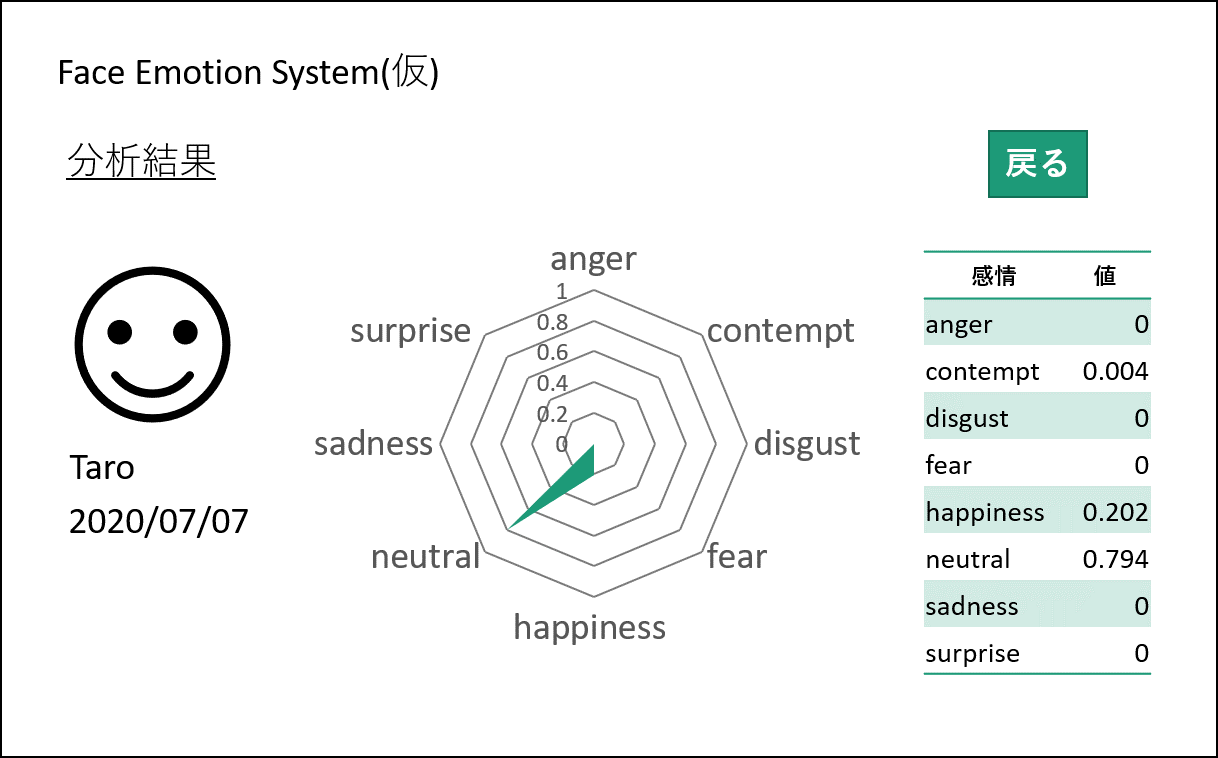
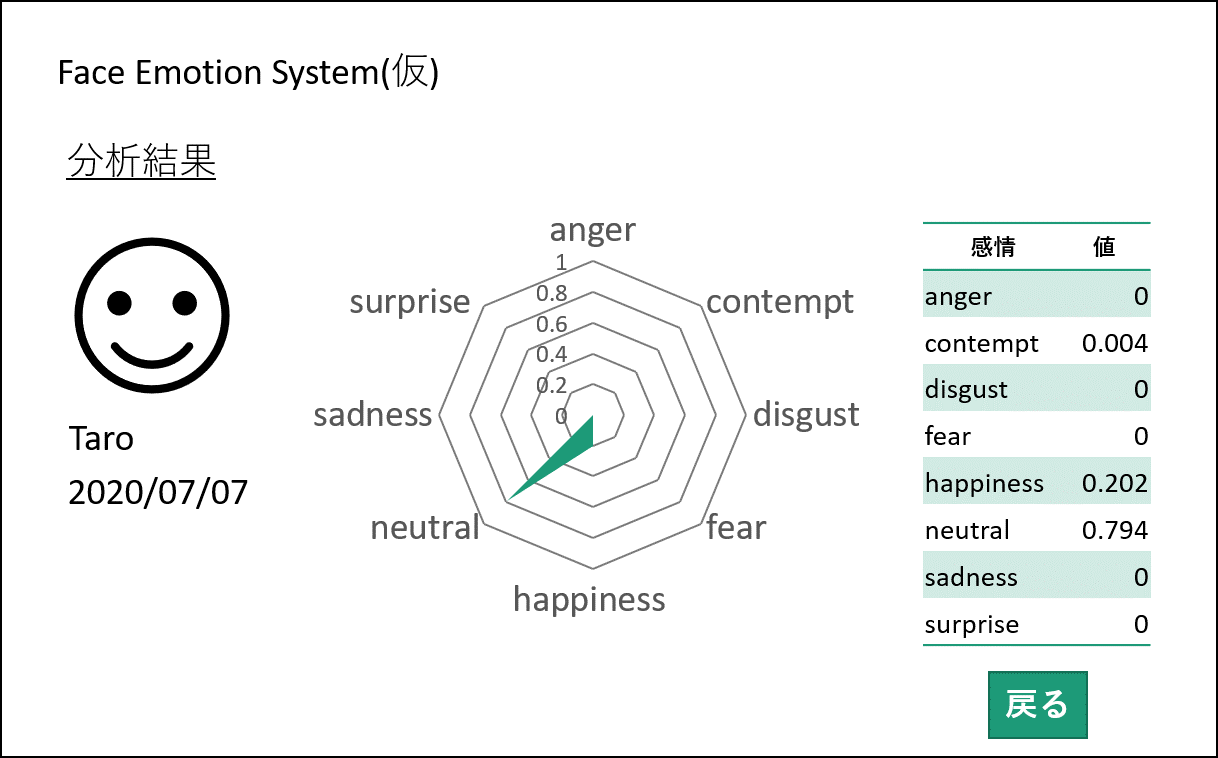
修正 ユースケース図のアクター「Server」の名称変更, 画面レイアウトのボタンの配置変更, ユースケース記述の修正

diff --git a/usecase/usecaseDescription.html b/usecase/usecaseDescription.html
@@ -512,7 +512,7 @@ body.book #toc,body.book #preamble,body.book h1.sect0,body.book .sect1>h2{page-b
 <h3 id="_ユースケース図">1.2. ユースケース図</h3>
 <div class="imageblock">
 <div class="content">
-<img src="img/diag-3ed47d666d03d09c5b06304e43fc3bd9.png" alt="Diagram" width="380" height="200">
+<img src="img/diag-e3586867dd161ef3a5897ebbee058bb9.png" alt="Diagram" width="477" height="200">
 </div>
 </div>
 </div>
@@ -707,23 +707,36 @@ body.book #toc,body.book #preamble,body.book h1.sect0,body.book .sect1>h2{page-b
 </li>
 <li>
 <p>ユーザーは「表示」ボタンを押下する</p>
+<div class="ulist">
+<ul>
+<li>
+<p><span class="red">URLが未入力の場合</span> ⇒ <a href="#display-Alt-1">Alt-1へ移動</a></p>
 </li>
 <li>
-<p>システムは対応する画像を表示する</p>
+<p><span class="red">URLが正しくない場合</span> ⇒ <a href="#display-Err-1">Err-1へ移動</a></p>
+</li>
+</ul>
+</div>
+</li>
+<li>
+<p>表情分析システムは対応する画像を表示する</p>
 </li>
 </ol>
 </div></div></td>
 </tr>
 <tr>
 <td class="tableblock halign-left valign-top"><p class="tableblock">代替フロー</p></td>
-<td class="tableblock halign-left valign-top"><div class="content"><div class="ulist">
+<td class="tableblock halign-left valign-top"><div class="content"><div id="display-Alt-1" class="ulist">
 <ul>
 <li>
-<p>Alt-1 URLが正しくない場合(入力が空を含む)</p>
+<p>Alt-1 URLが未入力の場合</p>
 <div class="olist arabic">
 <ol class="arabic">
 <li>
-<p>メッセージ01を表示する。</p>
+<p>表示ボタン押下不可</p>
+</li>
+<li>
+<p>基本フローのステップ1に戻る</p>
 </li>
 </ol>
 </div>
@@ -733,8 +746,19 @@ body.book #toc,body.book #preamble,body.book h1.sect0,body.book .sect1>h2{page-b
 </tr>
 <tr>
 <td class="tableblock halign-left valign-top"><p class="tableblock">例外フロー</p></td>
-<td class="tableblock halign-left valign-top"><div class="content"><div class="paragraph">
-<p>-</p>
+<td class="tableblock halign-left valign-top"><div class="content"><div id="display-Err-1" class="ulist">
+<ul>
+<li>
+<p>Err-1 URLが正しくない場合</p>
+<div class="olist arabic">
+<ol class="arabic">
+<li>
+<p>メッセージ01を表示する。</p>
+</li>
+</ol>
+</div>
+</li>
+</ul>
 </div></div></td>
 </tr>
 <tr>
@@ -827,23 +851,33 @@ body.book #toc,body.book #preamble,body.book h1.sect0,body.book .sect1>h2{page-b
 </li>
 <li>
 <p>ユーザーは「分析」ボタンを押下する</p>
+<div class="ulist">
+<ul>
+<li>
+<p><span class="red">画像が選択されていない場合</span> ⇒ <a href="#analyze-Alt-1">Alt-1に移動</a></p>
+</li>
+</ul>
+</div>
 </li>
 <li>
-<p>システムは画像の分析結果を表示する</p>
+<p>表情分析システムは画像の分析結果を表示する</p>
 </li>
 </ol>
 </div></div></td>
 </tr>
 <tr>
 <td class="tableblock halign-left valign-top"><p class="tableblock">代替フロー</p></td>
-<td class="tableblock halign-left valign-top"><div class="content"><div class="ulist">
+<td class="tableblock halign-left valign-top"><div class="content"><div id="analyze-Alt-1" class="ulist">
 <ul>
 <li>
 <p>Alt-1 画像が選択されていない場合</p>
 <div class="olist arabic">
 <ol class="arabic">
 <li>
-<p>メッセージ02を表示する。</p>
+<p>分析ボタン押下不可</p>
+</li>
+<li>
+<p>基本フローのステップ1に戻る</p>
 </li>
 </ol>
 </div>
@@ -897,7 +931,7 @@ body.book #toc,body.book #preamble,body.book h1.sect0,body.book .sect1>h2{page-b
 <div id="footer">
 <div id="footer-text">
 Version 1.0 2020-10-21<br>
-Last updated 2020-10-21 10:38:34 +0900
+Last updated 2020-10-21 16:31:51 +0900
 </div>
 </div>
 </body>
